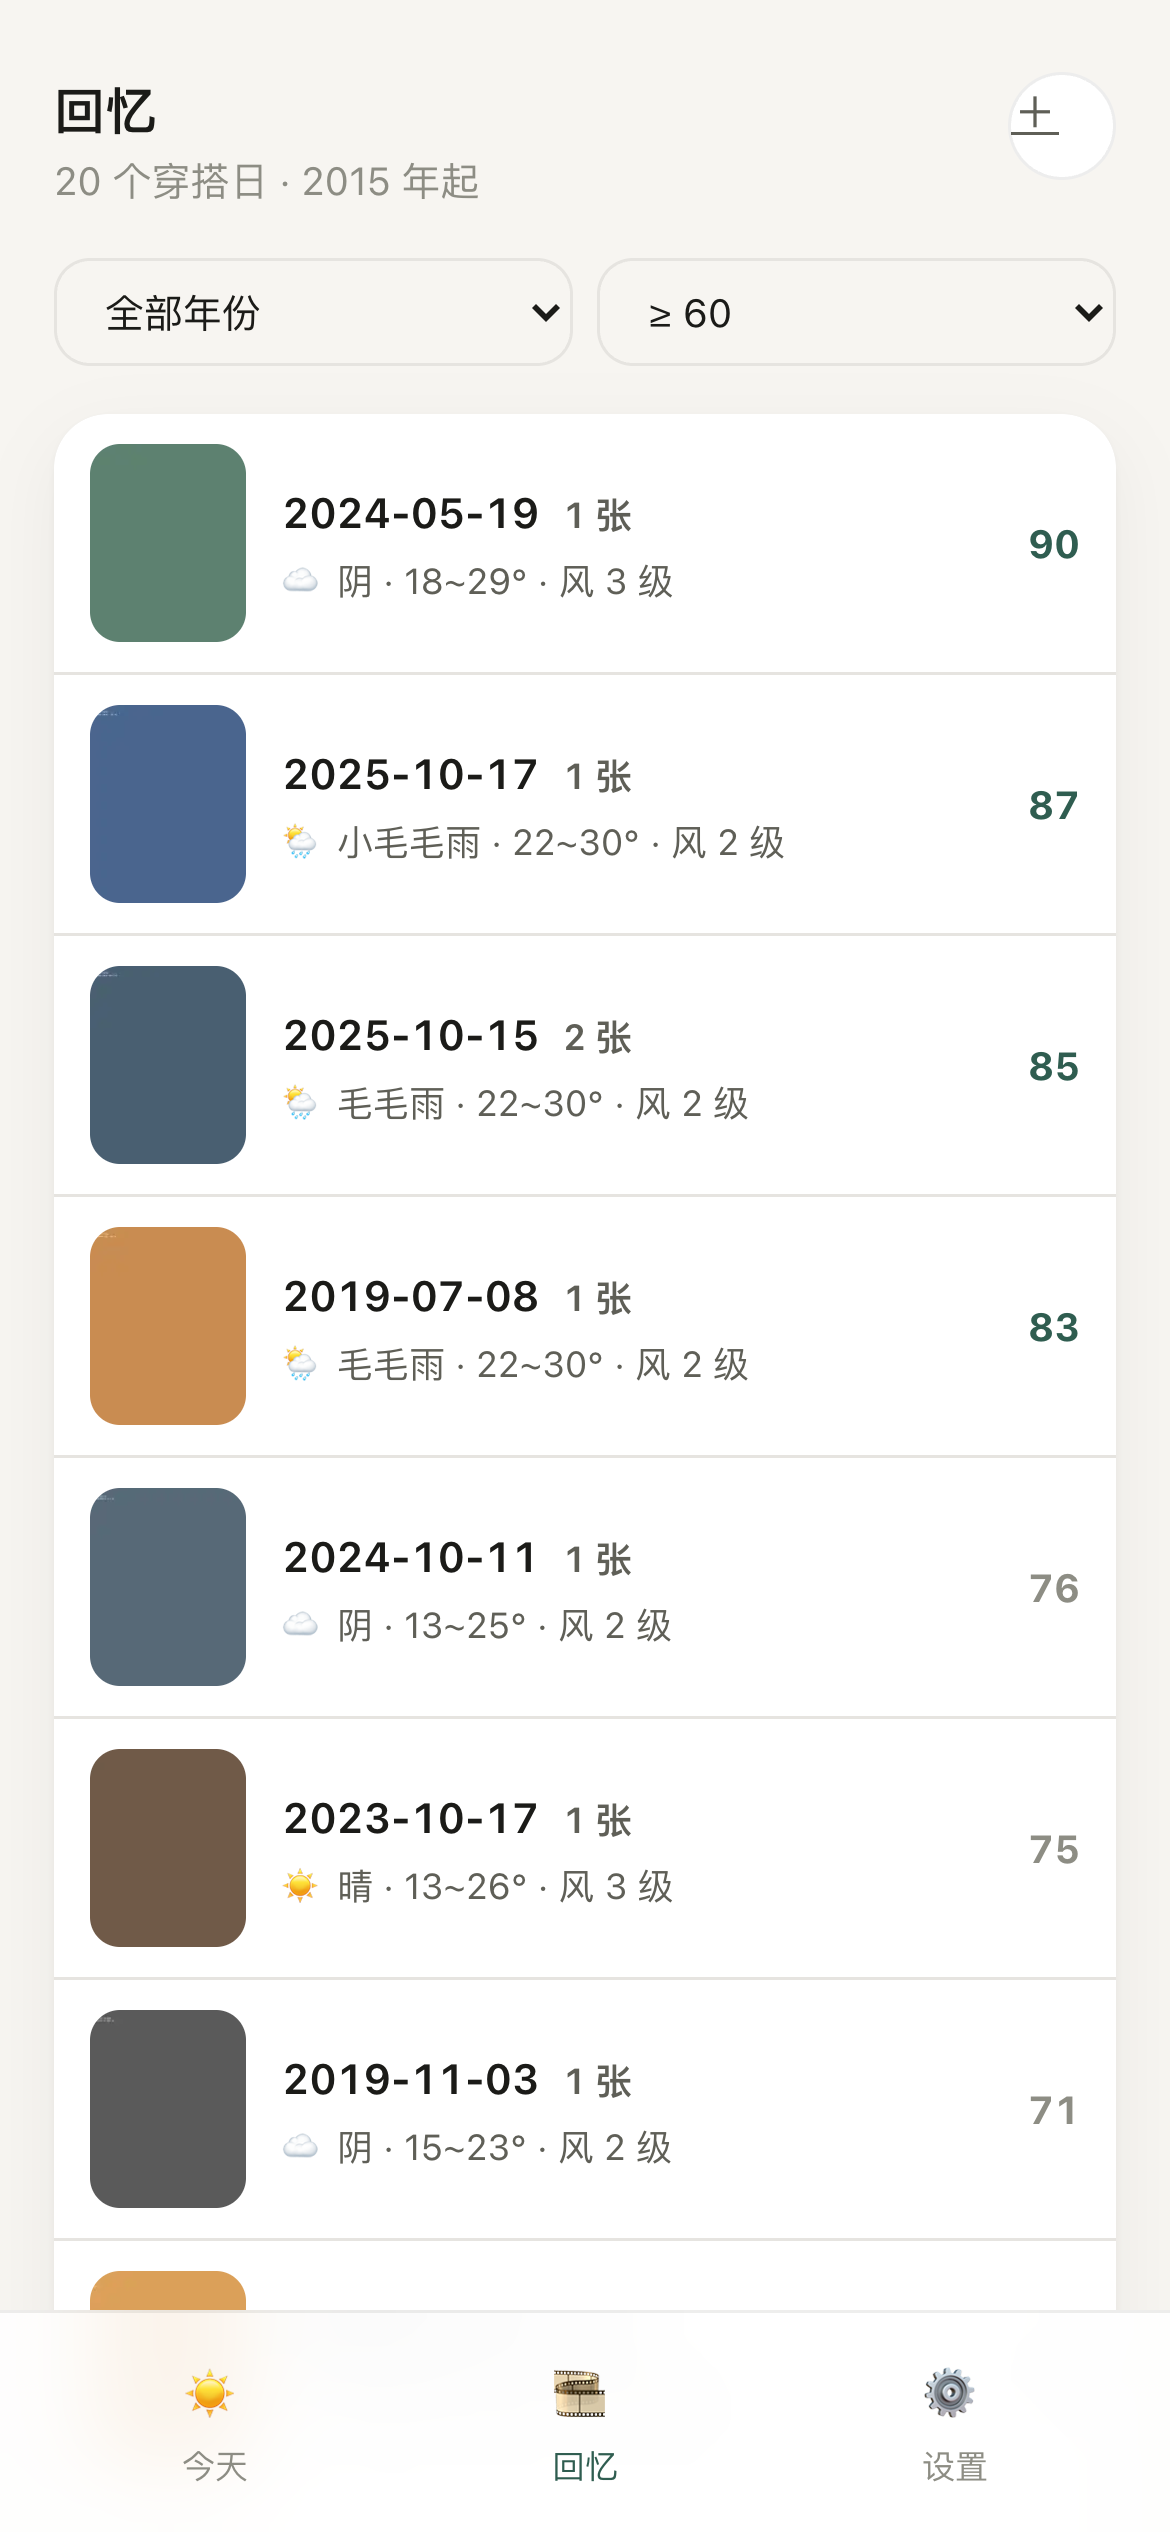
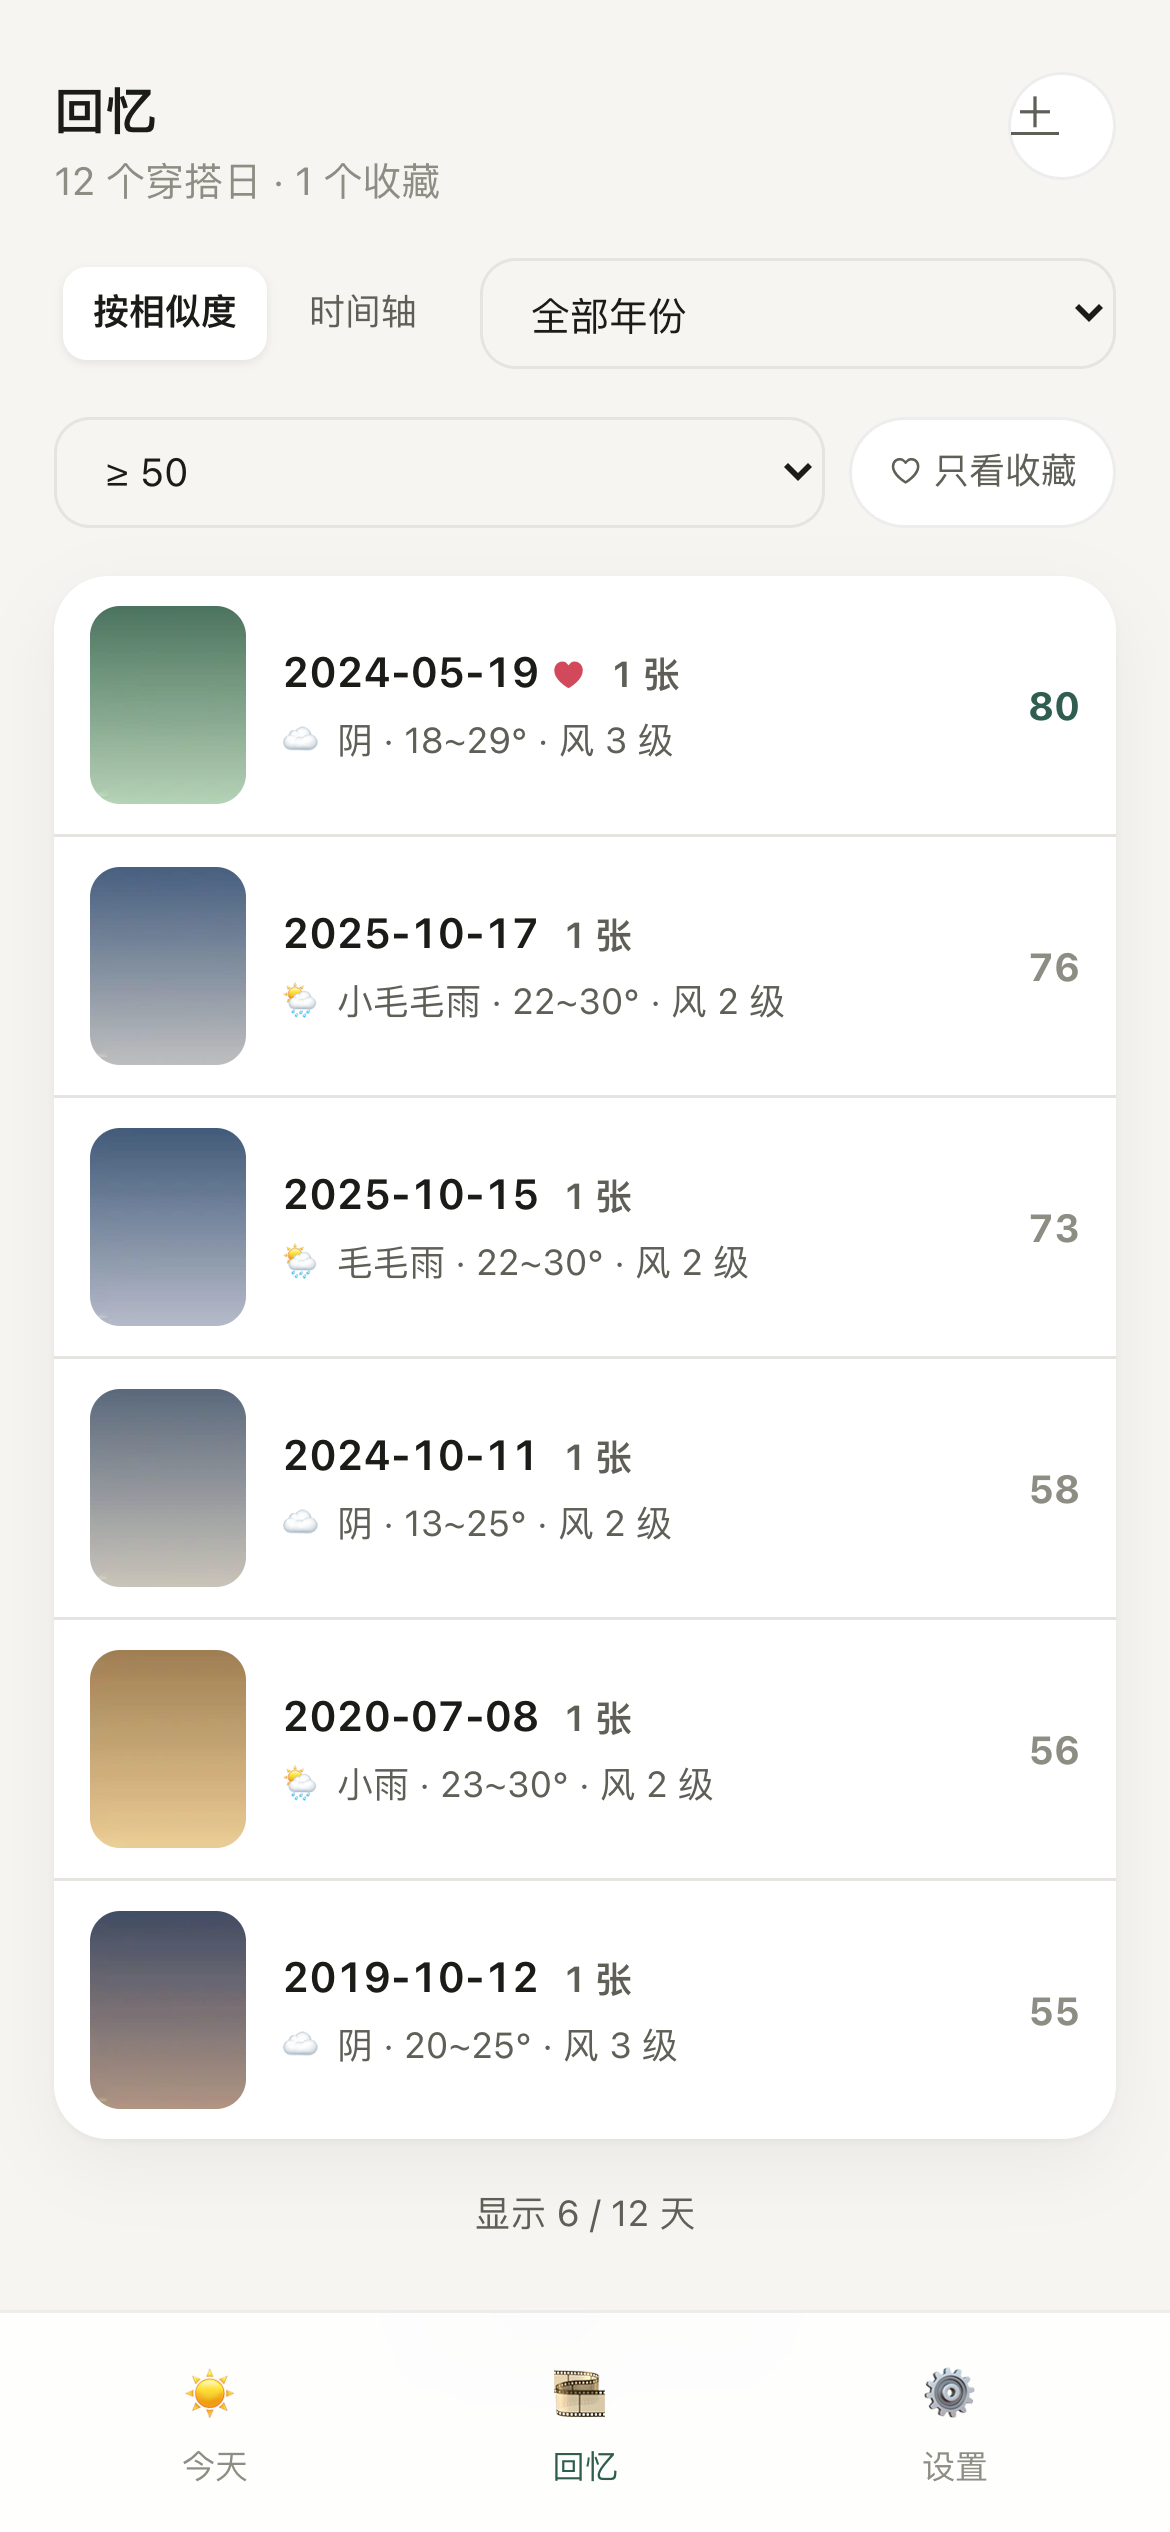
feat: 数据修补（改日期 / 删一天）+ 收尾
- 那天页新增「修补」：把照片挪到另一天（可合并）、删掉误导入的一天
- 删除时一并清掉照片索引与缩略图，天气缓存保留
- package.json 版本 0.1.0 -> 0.5.0
- README 截图更新到当前版本（首页 Top3 / 回忆 / 那天）

diff --git a/src/pages/Day.tsx b/src/pages/Day.tsx
@@ -1,5 +1,5 @@
 import { useEffect, useState } from 'react'
-import { Link, useParams } from 'react-router-dom'
+import { Link, useNavigate, useParams } from 'react-router-dom'
 import { db } from '../lib/db'
 import type { DayRow, PhotoRow, WeatherRow } from '../lib/db'
 import type { DailyWeather } from '../lib/types'
@@ -11,6 +11,7 @@ import { useSettings } from '../lib/settings'
 import { resolvePlace } from '../lib/places'
 import { useThumb } from '../lib/useThumb'
 import { describe, icon, windLevel } from '../lib/weather'
+import { deleteDay, moveDay } from '../lib/edit'
 
 function PhotoThumb({ id, active, onSelect }: { id: string; active: boolean; onSelect: (id: string) => void }) {
   const url = useThumb(id)
@@ -23,6 +24,7 @@ function PhotoThumb({ id, active, onSelect }: { id: string; active: boolean; onS
 
 export default function Day() {
   const { date } = useParams()
+  const navigate = useNavigate()
   const { settings } = useSettings()
   const [day, setDay] = useState<DayRow | null>(null)
   const [photos, setPhotos] = useState<PhotoRow[]>([])
@@ -31,6 +33,8 @@ export default function Day() {
   const [today, setToday] = useState<DailyWeather | null>(null)
   const [loading, setLoading] = useState(true)
   const [fav, setFav] = useState(false)
+  const [moveTo, setMoveTo] = useState('')
+  const [editing, setEditing] = useState(false)
 
   useEffect(() => {
     let alive = true
@@ -154,6 +158,54 @@ export default function Day() {
           <p className="muted">这个年份的天气可能还没同步，回回忆页刷新一下。</p>
         </section>
       )}
+
+      <section className="card">
+        <header className="card-head">
+          <h2>修补</h2>
+          <button className="link-btn" onClick={() => setEditing((prev) => !prev)}>
+            {editing ? '收起' : '展开'}
+          </button>
+        </header>
+        {editing ? (
+          <>
+            <p className="muted small">日期错了？把这一天的照片挪到正确的那天。搬过去会合并到目标日期。</p>
+            <div className="two-col">
+              <input
+                className="input"
+                type="date"
+                value={moveTo || day.date}
+                onChange={(event) => setMoveTo(event.target.value)}
+              />
+              <button
+                className="btn btn-ghost"
+                onClick={async () => {
+                  const target = moveTo || day.date
+                  if (target === day.date) return
+                  if (!confirm('把 ' + day.date + ' 的 ' + day.photoCount + ' 张照片挪到 ' + target + '？目标那天已有照片会合并。')) return
+                  await moveDay(day.date, target)
+                  navigate('/day/' + target)
+                }}
+              >
+                改日期
+              </button>
+            </div>
+            <div className="actions">
+              <button
+                className="btn btn-ghost danger"
+                onClick={async () => {
+                  if (!confirm('删除 ' + day.date + ' 这一天的 ' + day.photoCount + ' 张照片索引和缩略图？不可撤销。')) return
+                  await deleteDay(day.date)
+                  navigate('/rewind')
+                }}
+              >
+                删除这一天
+              </button>
+            </div>
+          </>
+        ) : (
+          <p className="muted small">支持改日期、删掉误导入的一天。</p>
+        )}
+      </section>
 
       {result ? (
         <section className="card">

diff --git a/src/lib/edit.ts b/src/lib/edit.ts
@@ -1,0 +1,34 @@
+import { db } from './db'
+import { rebuildDays } from './importer'
+
+/** 把某一天的所有照片挪到另一天（如果目标已有照片，会合并） */
+export async function moveDay(from: string, to: string): Promise<number> {
+  if (from === to) return 0
+  const photos = await db.photos.where('dayKey').equals(from).toArray()
+  if (!photos.length) return 0
+
+  await db.transaction('rw', db.photos, async () => {
+    for (const photo of photos) {
+      await db.photos.update(photo.id, { dayKey: to })
+    }
+  })
+
+  await rebuildDays()
+  return photos.length
+}
+
+/** 删除某一天：照片索引 + 缩略图 + 穿搭日记录（天气缓存保留） */
+export async function deleteDay(date: string): Promise<number> {
+  const photos = await db.photos.where('dayKey').equals(date).toArray()
+  const ids = photos.map((photo) => photo.id)
+
+  await db.transaction('rw', db.photos, db.thumbs, db.days, async () => {
+    if (ids.length) {
+      await db.photos.bulkDelete(ids)
+      await db.thumbs.bulkDelete(ids)
+    }
+    await db.days.delete(date)
+  })
+
+  return ids.length
+}

diff --git a/src/styles.css b/src/styles.css
@@ -940,6 +940,11 @@ body {
   letter-spacing: 0.03em;
 }
 
+.danger {
+  color: #d1495b;
+  border-color: rgba(209, 73, 91, 0.3);
+}
+
 .two-col {
   display: grid;
   grid-template-columns: 1fr 1fr;

diff --git a/README.md b/README.md
@@ -28,6 +28,7 @@
 - [x] **HEIC 兜底**：Chrome 解不了 HEIC 时按需加载 wasm 解码（1.3MB，只在遇到 HEIC 时下载）
 - [x] **首页 Top3**：直接给出今天最像的三个日子，点进去就是那天
 - [x] **备份**：导出 zip（索引 + 缩略图 + 天气缓存 + 设置）后可再导入，换设备/清缓存不怕丢
+- [x] **修补**：在那天页改日期（合并）或删掉误导入的一天
 - [x] 深浅色跟随系统、移动端优先、清空本机数据、错误兜底页
 - [x] 18 个单元测试（相似度 / 穿衣规则 / 日期归属 / 城市搜索 / zip 往返）
 
